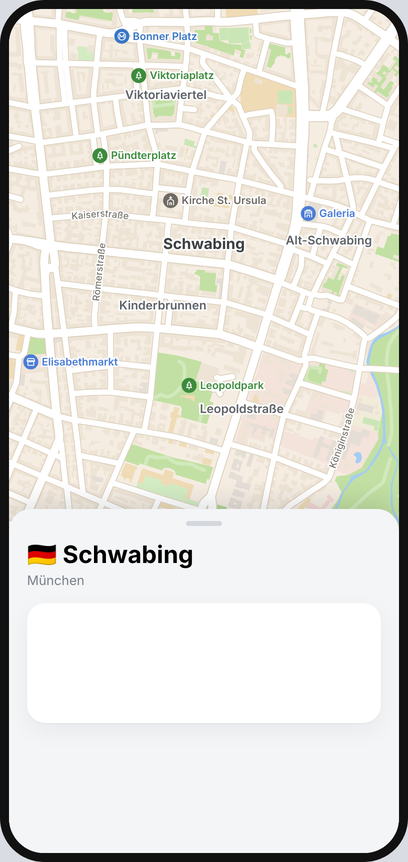
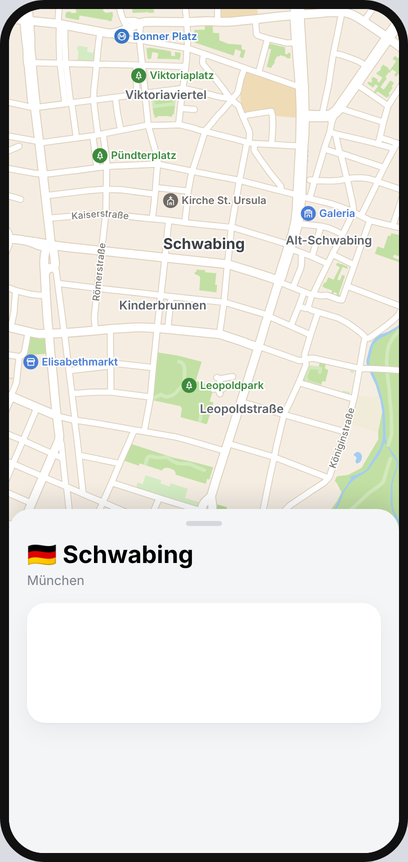
지도 시안: 구글 지도 느낌 — 건물 조각 칠하기 되돌림 (보통 블록은 바탕색 하나로)
Claude-Session: https://claude.ai/code/session_01TBUyc4nvbfrUF2uL1hRtAL

diff --git a/docs/mockups/phone-map/osm/osmmap.js b/docs/mockups/phone-map/osm/osmmap.js
@@ -100,15 +100,15 @@ const PRETTY = process.env.STYLE === 'pretty';
 // STYLE=gmap: a busy street map's manner — cream ground, land uses in their own colours, hardly any houses, white streets with no rim, coloured place names with their icons, street names along the streets
 const GMAP = process.env.STYLE === 'gmap', COLLECT = PRETTY || GMAP, STREETS = [], FOOT = [];
 // gmap: ordinary blocks stay the quiet ground (homes, shops, offices alike); only the places that mean something get a colour — parks, campuses, works yards, water
-if (GMAP) Object.assign(C, { land: '#f5ede2', built: '#f5ede2', resi: '#f5ede2', shop: '#f4e3da', works: '#ebe8e3', railyard: '#ebe8e3', school: '#efdcb6', park: '#c2e0a3', forest: '#b2d796', water: '#a4cdf2',
-  bld: '#eee4d6', edge: '#dccfbb', road: '#ffffff', major: '#fdd98a', majorEdge: '#e9b85a', plaza: '#f5ede2', foot: '#d2e9bd' });
+if (GMAP) Object.assign(C, { land: '#f5ede2', built: '#f5ede2', resi: '#f5ede2', shop: '#f5ede2', works: '#ebe8e3', railyard: '#ebe8e3', school: '#efdcb6', park: '#c2e0a3', forest: '#b2d796', water: '#a4cdf2',
+  bld: '#dedbd6', edge: '#dccfbb', road: '#ffffff', major: '#fdd98a', majorEdge: '#e9b85a', plaza: '#f5ede2', foot: '#d2e9bd' });
 if (GMAP) Object.assign(COVER, { grass: '#d3ecc3', allot: '#d6ebc5', orchard: '#cfe8bc', vine: '#dde8c0', grave: '#d4e3cb', scrub: '#cfe3b8', farm: '#f1ecd9' });
 const { ICON, glyph, pick } = require('./icons.js');
 const COVER0 = null;
 const pxArea = ps => Math.abs(ps.reduce((s, p, i) => { const q = ps[(i + 1) % ps.length]; return s + p[0] * q[1] - q[0] * p[1]; }, 0)) / 2;
 const centre = ps => { const n = ps.length; return [ps.reduce((s, p) => s + p[0], 0) / n, ps.reduce((s, p) => s + p[1], 0) / n]; };
 const POIS = [], GREENS = [];
-const L = { gEdu: '', gHealth: '', gBiz: '', gPitch: '', station: '',  shop: '', works: '', railyard: '', school: '', mark: '', markStation: '', shadow: {}, built: '', park: '', forest: '', water: '', plaza: '', bld: '', foot: '', minor: '', mid: '', major: '', rail: '', tram: '' };
+const L = { station: '',  shop: '', works: '', railyard: '', school: '', mark: '', markStation: '', shadow: {}, built: '', park: '', forest: '', water: '', plaza: '', bld: '', foot: '', minor: '', mid: '', major: '', rail: '', tram: '' };
 const BUILT = /residential|commercial|retail|industrial|railway|construction|brownfield|education|emergency/;
 const GREEN = /grass|village_green|flowerbed|meadow|allotments|cemetery|greenhouse/;
 for (const e of d.elements) {
@@ -122,13 +122,7 @@ for (const e of d.elements) {
       { const ic = pick(t); if (ic && (t.name || t.wikidata)) POIS.push({ ic, at: centre(ps), pr: (t.wikidata ? 2 : 0) + (t.name ? 1 : 0) + Math.min(2, px / 400), name: t.name }); }
       if (t.building === 'train_station' || t.railway === 'station') { L.station += a; continue; }
       if (px < 40 * k * k * 2.2) continue;          // the tiny sheds and kiosks go
-      if (GMAP) {                                      // gmap: houses are the ground; only buildings that say what a place is get a face
-        const b = t.building, am = t.amenity;
-        if (/^(university|college|school|kindergarten)$/.test(b) || /^(university|college|school|kindergarten)$/.test(am || '')) L.gEdu += a;
-        else if (b === 'hospital' || am === 'hospital' || am === 'clinic') L.gHealth += a;
-        else if (px > 500 * k * k && (/^(office|retail|commercial|supermarket|hotel|government|civic|public|industrial|warehouse|train_station)$/.test(b) || t.shop || t.office)) L.gBiz += a;
-        else L.bld += a;                               // every other house: a faint shade of the ground, so dense blocks read as dense
-        continue; }
+      if (GMAP) continue;                              // gmap: no houses at this scale — the blocks are the ground
     }
     // A: churches, stations, castles, halls and anything with its own wiki page stand out a little
     const big = /cathedral|church|chapel|castle|palace|train_station|government|museum|civic|public|university|stadium|transportation/.test(t.building) || t.historic || t.tourism || t.wikidata || t.amenity === 'place_of_worship';
@@ -141,9 +135,6 @@ for (const e of d.elements) {
   if (COLLECT && e.geometry) { const ic = pick(t); if (ic && t.name && !t.building) { const ps = pts(e.geometry); POIS.push({ ic, at: centre(ps), pr: (t.wikidata ? 2 : 0) + 1 + Math.min(2, pxArea(ps) / 3000), name: t.name }); } }
   if (COLLECT && e.type === 'node') { const ic = pick(t); if (ic && (t.name || t.wikidata)) POIS.push({ ic, at: P(e.lat, e.lon), pr: (t.wikidata ? 2.5 : 0) + 1, name: t.name }); }
   // gmap: parks only where they matter — courtyard lawns, flowerbeds and small gardens go
-  if (GMAP && !t.building && e.geometry && /^(university|college|school|kindergarten)$/.test(t.amenity || '')) { L.gEdu += area(e); continue; }
-  if (GMAP && !t.building && e.geometry && /^(hospital|clinic)$/.test(t.amenity || '')) { L.gHealth += area(e); continue; }
-  if (GMAP && e.geometry && t.leisure === 'pitch') { L.gPitch += area(e); continue; }
   if (GMAP && e.type === 'way' && e.geometry && (t.leisure && /park|garden/.test(t.leisure) || /^(grass|flowerbed|village_green|greenery)$/.test(t.landuse || '') || t.natural === 'grassland') && pxArea(pts(e.geometry)) < 2500 * k * k) continue;
   if (t.leisure && /park|garden/.test(t.leisure)) { L.park += area(e); if (COLLECT && e.type === 'way' && e.geometry) GREENS.push(pts(e.geometry)); continue; }
   { const c = coverOf(t); if (c) { if (c === 'forest') L.forest += area(e); else LC[c] += area(e); continue; } }
@@ -206,7 +197,7 @@ let svg = `<rect width="${W}" height="${H}" fill="${C.land}"/>`
 if (GMAP) svg = `<rect width="${W}" height="${H}" fill="${C.land}"/>`
   + fill(L.built, C.built) + fill(L.resi, C.resi) + fill(L.shop, C.shop) + fill(L.works, C.works) + fill(L.railyard, C.railyard) + fill(L.school, C.school)
   + ['farm', 'grass', 'allot', 'orchard', 'vine', 'grave', 'scrub', 'wet', 'sand', 'rock'].map(k2 => fill(LC[k2], COVER[k2])).join('') + fill(L.park, C.park) + fill(L.forest, C.forest) + fill(L.plaza, C.plaza) + fill(L.water, C.water)
-  + fill(L.bld, C.bld) + fill(L.gPitch, '#cbe6b6') + fill(L.gEdu, C.school) + fill(L.gHealth, '#f3d8d4') + fill(L.gBiz, '#e4ded6') + fill(L.station, '#e2dfda')
+  + fill(L.bld, C.bld) + fill(L.station, '#e2dfda')
   // park paths as faces, not lines: the few long ones as a soft band one shade lighter than the grass, no rim
   + (L.park + L.forest ? `<defs><clipPath id="gp"><path d="${L.park + L.forest}"/></clipPath></defs><g clip-path="url(#gp)">${st(parkPaths(), C.foot, Math.max(3.6, mpx(4)))}</g>` : '')
   + st(L.minor, C.edge, Math.max(5.5, mpx(8)) + 1.6) + st(L.mid, C.edge, Math.max(8, mpx(12)) + 1.8)
